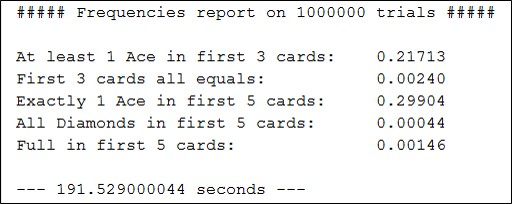
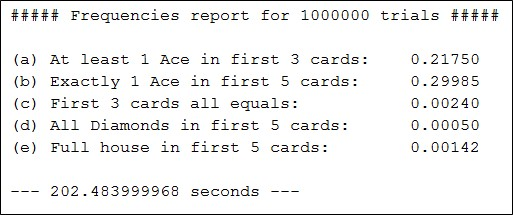
update deck exercise frequencies report in hm_1.tex

diff --git a/01/deck.py b/01/deck.py
@@ -42,12 +42,12 @@ def full_5_cards(cards):
 
 
 def print_results():
-    print '##### Frequencies report on %d trials #####\n' % TRIALS
-    print 'At least 1 Ace in first 3 cards:\t' + FORMAT.format(atLeast1Ace3Cards / TRIALS)
-    print 'First 3 cards all equals:\t\t\t' + FORMAT.format(allEquals3Cards / TRIALS)
-    print 'Exactly 1 Ace in first 5 cards:\t\t' + FORMAT.format(exactly1Ace5Cards / TRIALS)
-    print 'All Diamonds in first 5 cards:\t\t' + FORMAT.format(allDiamonds5Cards / TRIALS)
-    print 'Full in first 5 cards:\t\t\t\t' + FORMAT.format(full5Cards / TRIALS)
+    print '##### Frequencies report for %d trials #####\n' % TRIALS
+    print '(a) At least 1 Ace in first 3 cards:\t' + FORMAT.format(atLeast1Ace3Cards / TRIALS)
+    print '(b) Exactly 1 Ace in first 5 cards:\t\t' + FORMAT.format(exactly1Ace5Cards / TRIALS)
+    print '(c) First 3 cards all equals:\t\t\t' + FORMAT.format(allEquals3Cards / TRIALS)
+    print '(d) All Diamonds in first 5 cards:\t\t' + FORMAT.format(allDiamonds5Cards / TRIALS)
+    print '(e) Full house in first 5 cards:\t\t' + FORMAT.format(full5Cards / TRIALS)
 
 
 if __name__ == "__main__":

diff --git a/01/latex_files/tex/problem_1.tex b/01/latex_files/tex/problem_1.tex
@@ -113,7 +113,7 @@ We developed a simple Python script that performs drawing simulations to check o
 We used the Python module \textit{pydealer}\cite{pydealer} to simulate the drawing of 5 cards from a deck of French cards. Basically, we repeated the drawing process many times (e.g. a million trials), keeping track of how many times each event occurred.
 In the end we computed the frequency of each event, dividing its occurrences by the total number of trials.
 Results for a million trials are shown below.
-
 \begin{center}
-	\includegraphics[]{img/deck.jpg}
+	\vspace{5mm}
+	\includegraphics[scale=0.8]{img/deck.jpg}
 \end{center}
